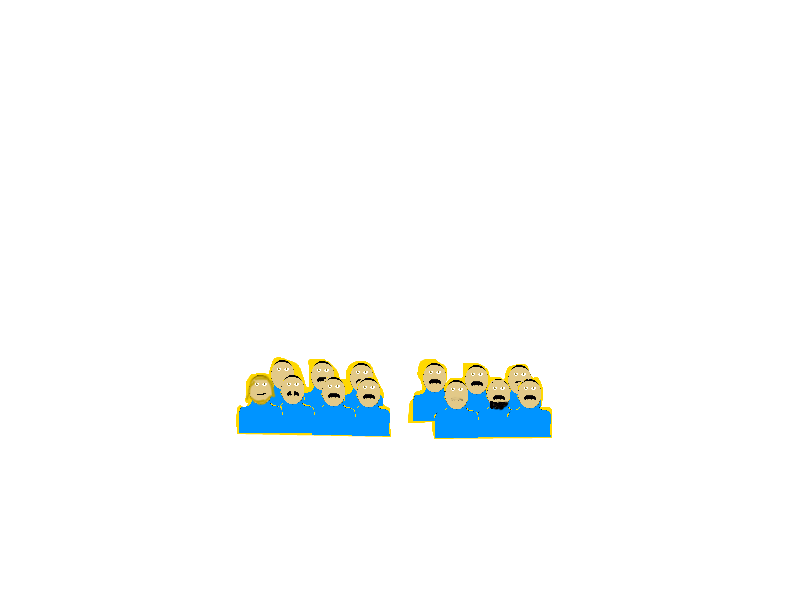
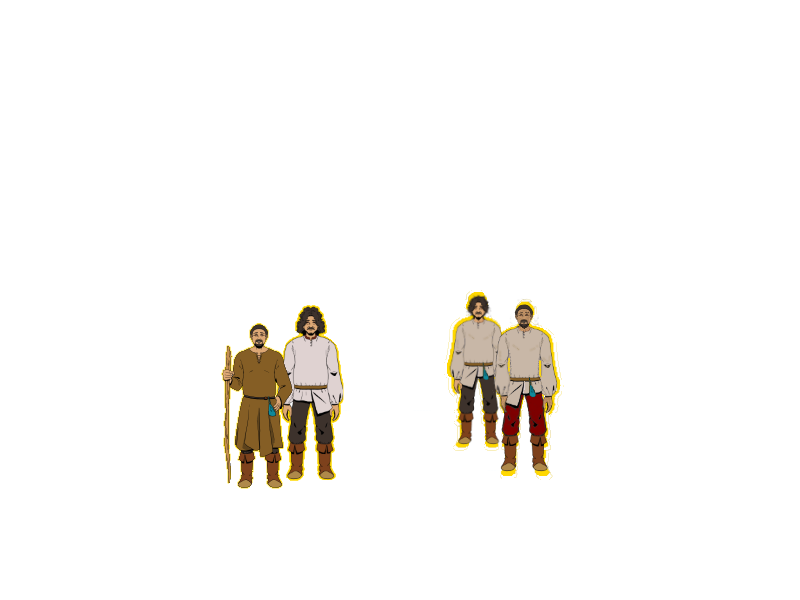
petitions now can feature build actions

Changed region(s): [[0.2812, 0.48, 0.7188, 0.81]]

diff --git a/src/gamelogic/petitioners/CommonPetitionersLibrary.kt b/src/gamelogic/petitioners/CommonPetitionersLibrary.kt
@@ -5,10 +5,16 @@ import aibrain.FinishedDeal
 import game.Game
 import game.GameCharacter
 import game.Writ
+import gamelogic.economics.Construction
+import gamelogic.economics.EconomicsLogicModule
 import gamelogic.government.Capital
 import gamelogic.government.GovernmentLogicModule
+import gamelogic.government.actionTypes.LaunchConstruction
 import gamelogic.playerresources.GiveResource
 import gamelogic.resources.ResourceTypes
+import gamelogic.resources.Resources
+import gamelogic.territory.mapobjects.Structure
+import gamelogic.territory.mapobjects.StructureType
 
 object CommonPetitionersLibrary {
 
@@ -24,10 +30,24 @@ object CommonPetitionersLibrary {
     fun charity(capital: Capital, game: Game): GameCharacter{
         val petitionerName = commonerNames.random()
         val governmentLogic = game.moduleOfType(GovernmentLogicModule.type) as GovernmentLogicModule
-        val retval = GameCharacter(petitionerName, "assets/portraits/faceman.png", true, capital.location, game)
+        val retval = GameCharacter(petitionerName, "assets/portraits/Commoner_1.png", true, capital.location, game)
         retval.petitions.add(Petition("My lord, we are but a poor village, and we require gold with which to buy tools and rebuild our homes.",
             Writ("Charity to ${petitionerName}",
                 giveWrit(ResourceTypes.GOLD_NAME, 1, governmentLogic.countOfCaptial(capital.terId)!!, retval), listOf(retval))))
+
+        return retval
+    }
+
+    fun buildMill(capital: Capital, game: Game): GameCharacter{
+        val petitionerName = commonerNames.random()
+        val governmentLogic = game.moduleOfType(GovernmentLogicModule.type) as GovernmentLogicModule
+
+        val retval = GameCharacter(petitionerName, "assets/portraits/Commoner_1.png", true, capital.location, game)
+
+        val petition = Petition("There's a creek down below Ned's farm, and I think it would be the perfect place to build a mill. Just think of all the time we could save if we used the river to grind our grain.",
+            Writ("Construct new mill",
+                buildDeal(StructureType.typeByName("Water Mill"), 9, governmentLogic.countOfCaptial(capital.terId)!!, capital.terId), listOf()))
+        retval.petitions.add(petition)
 
         return retval
     }
@@ -36,4 +56,12 @@ object CommonPetitionersLibrary {
         return FinishedDeal(mapOf(from to setOf(GiveResource(to.id, key, amount))))
     }
 
+    private fun buildDeal(structureType: StructureType, gold: Int, count: GameCharacter, territory: Int): Deal{
+        val resources = Resources()
+
+        resources.add(ResourceTypes.GOLD_NAME, gold)
+
+        return FinishedDeal(mapOf(
+            count to setOf(LaunchConstruction(Construction(Structure(count.id, structureType), resources), territory))))
+    }
 }

diff --git a/src/gamelogic/petitioners/SpecialAction.kt b/src/gamelogic/petitioners/SpecialAction.kt
@@ -1,0 +1,54 @@
+package gamelogic.petitioners
+
+import com.beust.klaxon.Klaxon
+import game.Game
+import game.GameCharacter
+import game.action.Action
+import shortstate.ShortStateCharacter
+import java.io.File
+
+class SpecialAction: Action {
+
+    companion object{
+        const val typeName = "special"
+        var allTypes = listOf<SpecialAction>()
+
+        fun loadActionTypes(){
+            val klac = Klaxon()
+            val loadMap = klac.parseArray<Map<String,Any>>(File("data/special_actions.txt").readText())!!
+            allTypes = loadMap.map{ SpecialAction(it) }
+        }
+    }
+
+    val name: String
+
+    constructor(definition: Map<String, Any>){
+        name = definition["name"] as String
+    }
+
+    override fun isLegal(game: Game, player: GameCharacter): Boolean {
+        return true
+    }
+
+    override fun doAction(game: Game, player: GameCharacter) {
+
+    }
+
+    override fun saveString(): Map<String, Any> {
+        return mapOf(
+            "name" to name
+        )
+    }
+
+    override fun collidesWith(other: Action): Boolean {
+        return false
+    }
+
+    override fun tooltip(perspective: ShortStateCharacter): String {
+        return name
+    }
+
+    override fun description(): String {
+        return name
+    }
+}

diff --git a/src/game/action/GlobalActionTypeFactory.kt b/src/game/action/GlobalActionTypeFactory.kt
@@ -8,6 +8,7 @@ import gamelogic.cookieworld.actionTypes.WasteTime
 import gamelogic.government.actionTypes.EnactLaw
 import gamelogic.government.actionTypes.GiveTerritory
 import gamelogic.government.actionTypes.LaunchConstruction
+import gamelogic.petitioners.SpecialAction
 import gamelogic.playerresources.GiveResource
 
 object GlobalActionTypeFactory {
@@ -21,7 +22,8 @@ object GlobalActionTypeFactory {
         EnactLaw.typeName to {map, game -> EnactLaw(map)},
         GiveTerritory.typeName to {map, game -> GiveTerritory(map["territory"] as Int, map["target"] as Int)},
         GiveResource.typeName to {map, game -> GiveResource(map["char"] as Int, map["resource"] as String, map["amount"] as Int)},
-        LaunchConstruction.typeName to { map, game -> LaunchConstruction(map)}
+        LaunchConstruction.typeName to { map, game -> LaunchConstruction(map)},
+        SpecialAction.typeName to {map, game -> SpecialAction(map)}
     )
 
     fun fromMap(map: Map<String, Any>, game: Game): Action {

diff --git a/src/main/Controller.kt b/src/main/Controller.kt
@@ -6,6 +6,7 @@ import com.beust.klaxon.Klaxon
 import com.google.gson.Gson
 import game.Game
 import game.GameCharacter
+import gamelogic.petitioners.SpecialAction
 import gamelogic.territory.mapobjects.ShipType
 import gamelogic.territory.mapobjects.StructureType
 import javafx.application.Application
@@ -15,6 +16,7 @@ import shortstate.ShortStateCharacter
 import shortstate.ShortStateController
 import ui.MainUI
 import java.io.File
+import javax.swing.text.html.HTMLDocument
 
 
 class Controller {
@@ -172,6 +174,7 @@ class Controller {
     private fun setupRefData(){
         StructureType.loadStructureTypes()
         ShipType.loadShipTypes()
+        SpecialAction.loadActionTypes()
     }
 
 }

diff --git a/src/gamelogic/government/actionTypes/LaunchConstruction.kt b/src/gamelogic/government/actionTypes/LaunchConstruction.kt
@@ -36,7 +36,7 @@ class LaunchConstruction: Action {
         val territory = (game.moduleOfType(TerritoryLogicModule.type) as TerritoryLogicModule).territoryById(terID)
 
         if(game.resourcesByCharacter(player).greaterThanOrEqualTo(construction.budget)){
-            game.addResourceForCharacter(player, construction.budget)
+            game.addResourceForCharacter(player, construction.budget.negative())
             territory.constructions.add(Construction(construction))
         } else {
             println("Attempting to create construction player cannot afford!")

diff --git a/src/test/petitioners/TestSaveAndClone.kt b/src/test/petitioners/TestSaveAndClone.kt
@@ -10,6 +10,7 @@ import gamelogic.petitioners.PetitionersLogicModule
 import gamelogic.territory.Territory
 import gamelogic.territory.TerritoryLogicModule
 import gamelogic.territory.TerritoryMap
+import gamelogic.territory.mapobjects.StructureType
 import org.junit.Test
 
 class TestSaveAndClone {
@@ -47,6 +48,8 @@ class TestSaveAndClone {
 
     @Test
     fun test_save(){
+        StructureType.loadStructureTypes()
+
         val game = petitionerTestGame()
         val game2 = Game(game.saveString())
 

diff --git a/src/gamelogic/petitioners/PetitionersLogicModule.kt b/src/gamelogic/petitioners/PetitionersLogicModule.kt
@@ -63,7 +63,7 @@ class PetitionersLogicModule: GameLogicModule {
 
             //add new petitioners
             if(game.isLive && petitionersByCapital[capital.terId]!!.filter { it.location == capital.location }.isEmpty()){
-                val toAdd = CommonPetitionersLibrary.charity(capital, game)
+                val toAdd = CommonPetitionersLibrary.buildMill(capital, game)
                 petitionersByCapital[capital.terId]!!.add(toAdd)
                 game.addPlayer(toAdd)
             }

diff --git a/src/shortstate/room/action/Wait.kt b/src/shortstate/room/action/Wait.kt
@@ -18,7 +18,7 @@ class Wait: RoomAction() {
 
     override fun doAction(game: ShortStateGame, player: ShortStateCharacter) {
         println("$player waits")
-        if(game.sceneForPlayer(player)!!.conversation != null){
+        if(game.sceneForPlayer(player) != null && game.sceneForPlayer(player)!!.conversation != null){
             throw Exception("Character tried to wait in conversation!")
         }
         game.pass(player)
